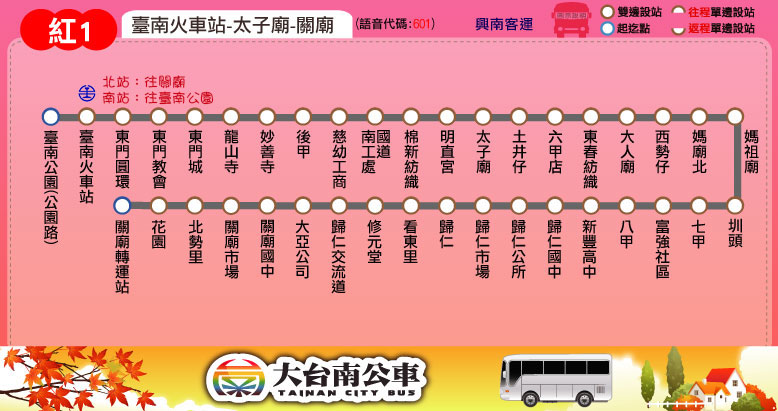
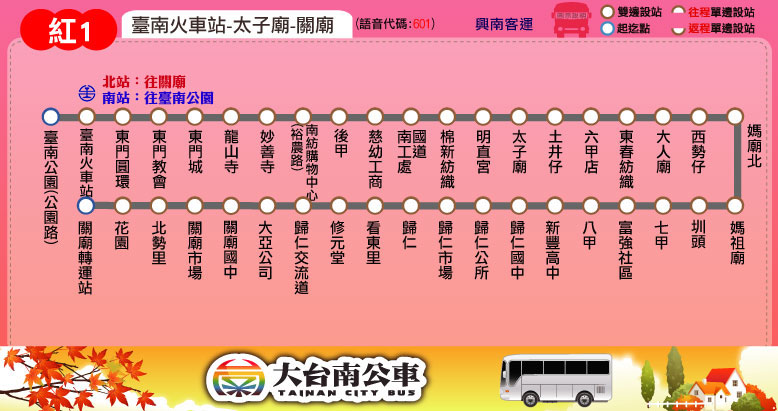
更新時刻表：綠22新增平日一往返班次；新增站位：紅1(增「南紡購物中心(裕農路)」)

diff --git a/route/fare_and_time/green_22.js b/route/fare_and_time/green_22.js
@@ -6,7 +6,6 @@ green_22_interval_stop = [
 ["茄拔路口","內埔","關帝廳","香蕉市","中山堂","灣丘","土地公廟","梅嶺資訊站","香蕉山","北勢仔","下井仔湖","上井仔湖","二層坪"], // 香蕉山
 ["梅嶺"] // 梅嶺
 ];
-green_22_stop_time_consume = [0,2,3,5,6,7,8,8,9,10,11,13,14,15,18,20,22,23,24,26,27,28,30,31,33,35,38,40];
 green_22_fare = [
 [26],
 [26,26],
@@ -20,5 +19,9 @@ green_22_fare = [
 green_22_main_stop_name = ["玉井","鹿陶","鹿陶洋","楠西","香蕉市","梅嶺<br />資訊站","梅嶺"];
 green_22_main_stop_time_consume = [0, 7, 9, 15, 23, 28, 40];
 green_22_important_stop = [0, 3, 6]; // 玉井, 楠西, 梅嶺
-green_22_time_go = [["07:20"],["08:10",['H']],["09:30",['H']],["10:50"],["11:30"],["12:30",['H']],["15:40",['H']],["17:10",['H']],["18:00"],["19:30",['H']]];
-green_22_time_return = [["08:00"],["08:50",['H']],["10:10",['H']],["11:30"],["12:10"],["13:10",['H']],["16:20",['H']],["17:50",['H']],["18:40"],["20:10",['H']]];
+green_22_time_go = [["07:20"],["10:50"],["11:30"],["14:30"],["18:00"]];
+green_22_time_return = [["08:00"],["11:30"],["12:10"],["15:10"],["18:40"]];
+
+// holiday schedule
+green_22_holiday_time_go = [["07:20"],["08:10"],["09:30"],["10:50"],["11:30"],["12:30"],["15:40"],["17:10"],["18:00"],["19:30"]];
+green_22_holiday_time_return = [["08:00"],["08:50"],["10:10"],["11:30"],["12:10"],["13:10"],["16:20"],["17:50"],["18:40"],["20:10"]];

diff --git a/green/green_22.html b/green/green_22.html
@@ -8,7 +8,10 @@
 	route_file_name = 'green_22';
 	route_type = 'green';
 	route_interval = ['玉井','楠西','梅嶺'];
+	route_start_stop = '玉井';
+	route_end_stop = '梅嶺';
 </script>
+<link href="../css/radio_style.css" rel="stylesheet" />
 <script src="../tools/web_model.js"></script> 
 <script type="text/javascript">
 	header_code();
@@ -18,9 +21,10 @@
 <script type="text/javascript">
 	block_header();
 	block_route_map(null);
-	block_route_info(route_interval,'興南客運','','里程計費','http://2384.tainan.gov.tw:8080/AGPSRemoteQuery3/ajaxBus.jsp?pathId=1122&locale=zh_TW');
+	block_route_info(route_interval,'興南客運','','里程計費','http://2384.tainan.gov.tw:8080/AGPSRemoteQuery3/ajaxBus.jsp?pathId=1122&locale=zh_TW',[['平日','normal'],['假日','holiday']]);
 	block_fare(0, null);
-	block_time_schedule('玉井','梅嶺',H_message);
+	//block_time_schedule('玉井','梅嶺',H_message);
+	block_multiple_time_schedule( [['平日班表','normal'],['假日班表','holiday']],'');
 	block_transfer(transfer_yujing);
 	block_copyright();
 </script>

diff --git a/route/fare_and_time/red_1.js b/route/fare_and_time/red_1.js
@@ -1,7 +1,7 @@
 red_1_interval_name = ["臺南","後甲","太子廟","大人廟","媽祖廟","歸仁","關廟","花園"];
 red_1_interval_stop = [
 ["臺南公園(公園路)","臺南火車站","東門圓環","東門教會","東門城","龍山寺"], // 臺南
-["妙善寺","後甲","慈幼高工","國道南工處"], // 後甲
+["妙善寺","南紡購物中心(裕農路)","後甲","慈幼高工","國道南工處"], // 後甲
 ["棉新紡織","明直宮","太子廟","土井仔","六甲店"], // 太子廟
 ["東春紡織","大人廟","西勢仔"], // 大人廟
 ["媽廟北","媽祖廟","圳頭"], // 媽祖廟
